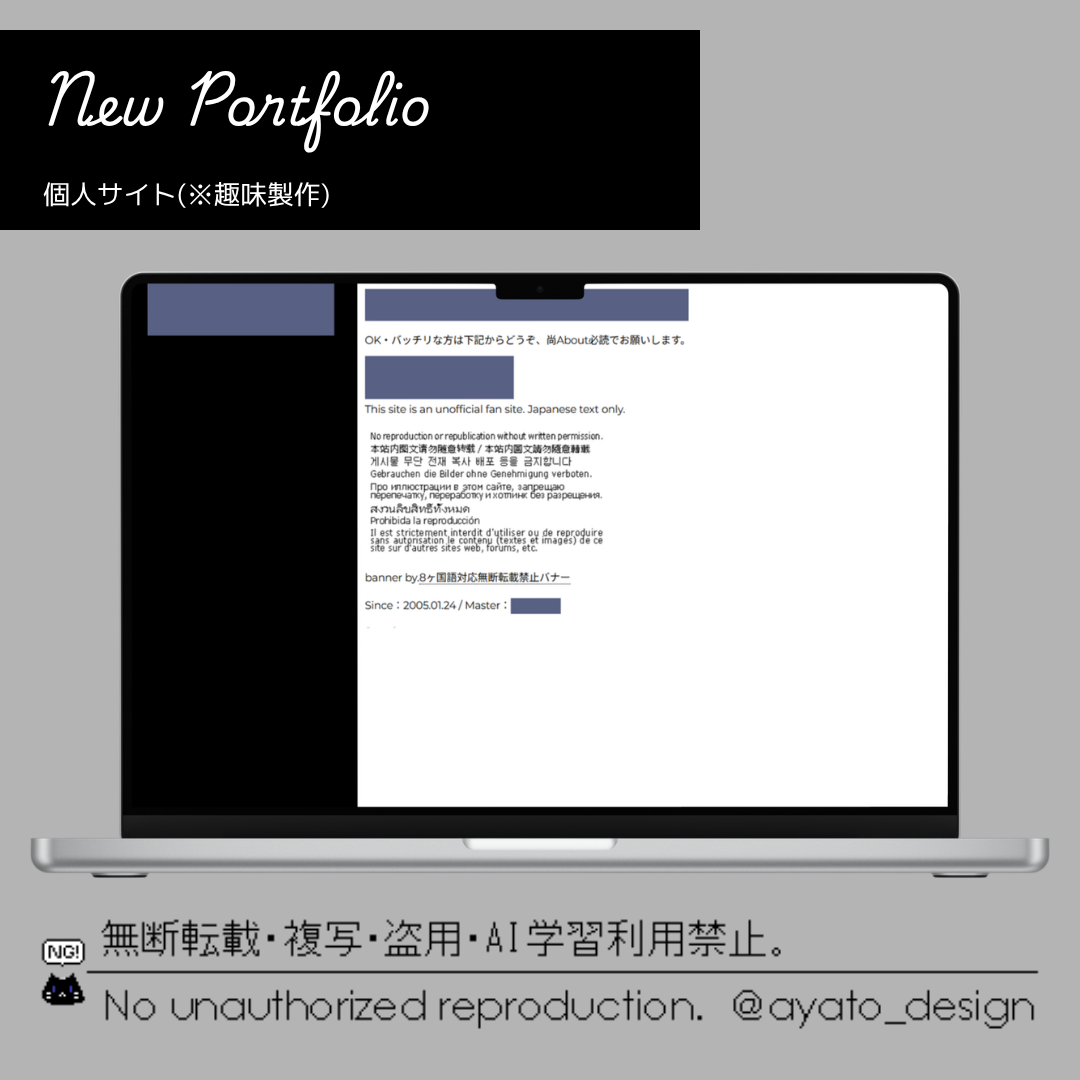
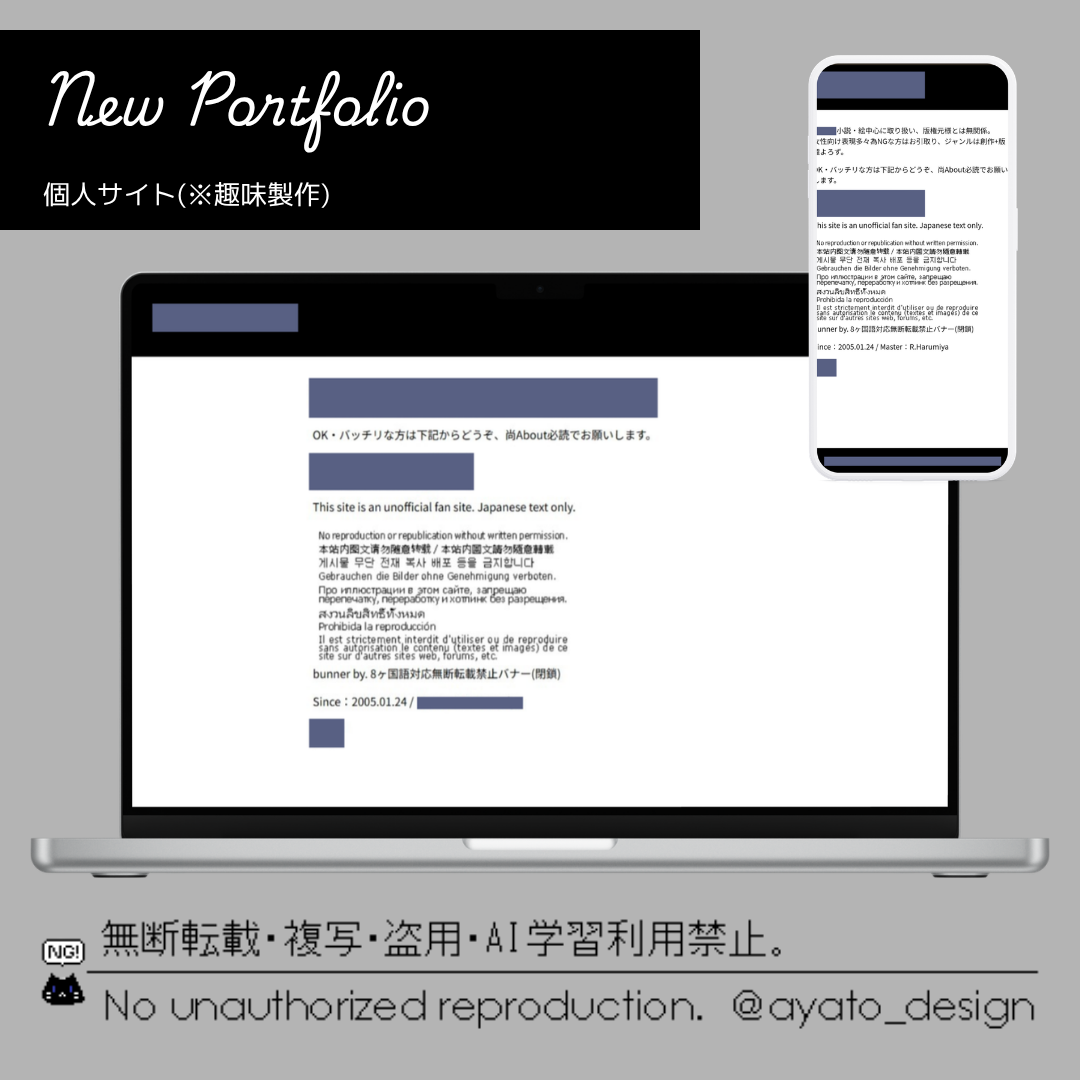
Add files via upload

Changed region(s): [[0.1222, 0.0306, 0.9472, 0.7639]]

diff --git a/works/1/1.html b/works/1/1.html
@@ -59,11 +59,24 @@
                     <p>一時期流行ったホームページビルダーも導入しましたが、挫折しました(笑)</p>
                     <p>何もない所から自分で作るのが楽しいと思ったのと、サイト制作が好きな原点はこの個人サイトからだと思います。</p>
                     <br>
-                    <p>レスポンシブは非対応…(その内出来たら…)</p>
+                    <p>サイトデザインはポートフォリオサイトをベースに作成。</p>
+                    <p>ページ数が膨大なのと、検索避けを必要としているので敢えてインラインフレームを使って作成しています。</p>
+                    <br>
+                    <h4>使用技術</h4>
+                    <ul class="normal_list3">
+                        <li>HTML</li>
+                        <li>CSS</li>
+                        <li>JavaScript(basic)</li>
+                        <li>jQuery</li>
+                    </ul>
                     <br>
                     <p>制作時間：不明</p>
-                    <p>制作ツール：メモ帳 / FFFTP</p>
+                    <p>制作ツール：Visual Studio Code/メモ帳(当時)/FFFTP</p>
                     <p>完成日：2005年1月～</p>
+                    <br>
+                    <h4>更新履歴</h4>
+                    <p>2026.10.14　レスポンシブ化</p>
+                    <p>2005.01.24　サイト公開</p>
                 </div>
             </div>
             <div class="back_works">
